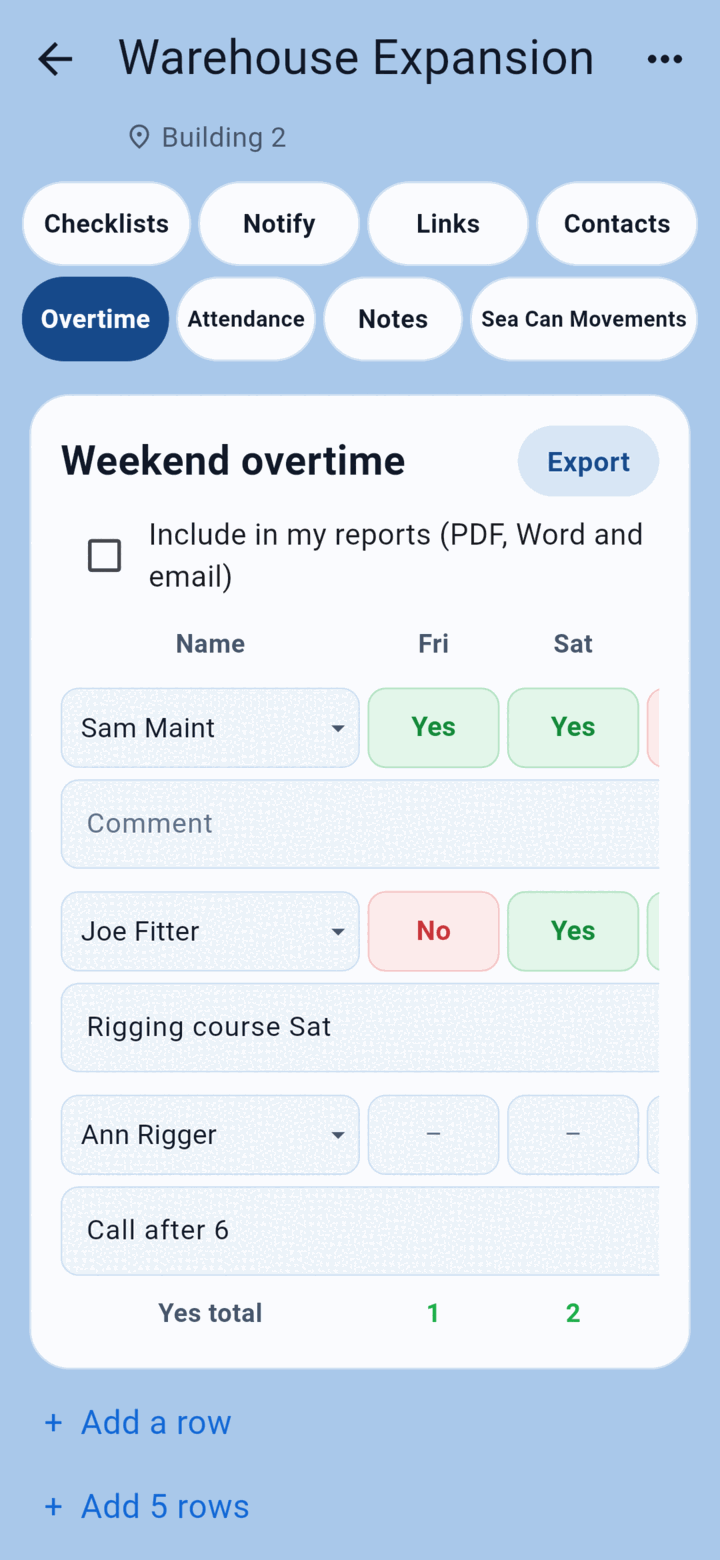
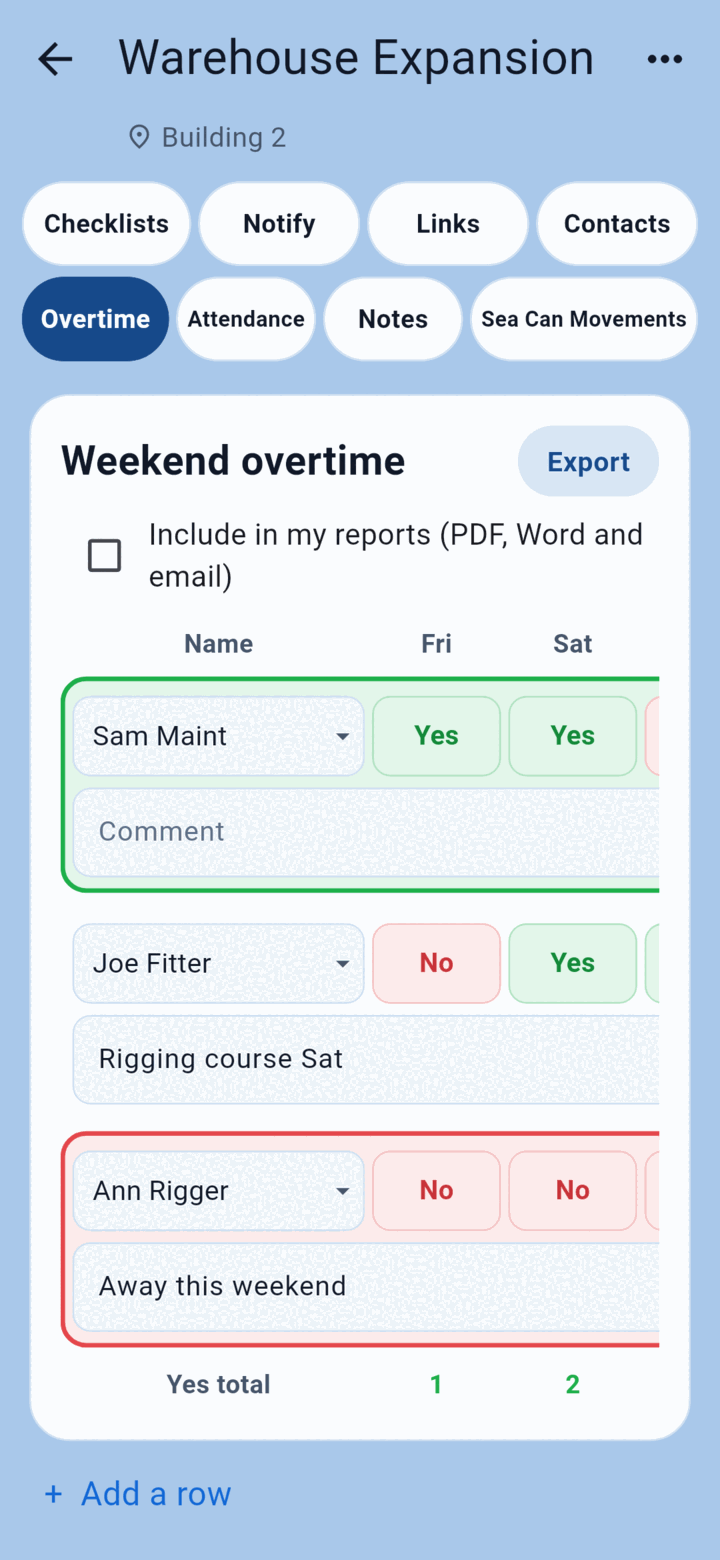
Overtime: green box around a person confirmed Yes, red for No; version 4.52
The box covers the name, every answer and the comment, so it shows without
sliding the table sideways. Manual and screenshots updated.

Claude-Session: https://claude.ai/code/session_01SU9pkUf5APMbUYgKfLLGdu

Changed region(s): [[0.0306, 0.4, 0.9778, 0.9231], [0.0611, 0.9538, 0.3361, 0.9846]]

diff --git a/mobile/lib/screens/overtime_pane.dart b/mobile/lib/screens/overtime_pane.dart
@@ -325,8 +325,30 @@ class _OvertimePaneState extends State<OvertimePane> {
   );
 
   /// One table row: Name, Fri, Sat, Sun dropdowns and the Hours box.
-  Widget _line(OtRow r, List<String> names, {Key? key}) => KeyedSubtree(
+  /// Once a person is confirmed, a box around their whole row (name, answers and comment) lights up:
+  /// green for Yes, red for No. Training and blank stay plain.
+  static BoxDecoration? confirmedBox(String confirmed) => switch (confirmed) {
+    Overtime.yes => BoxDecoration(
+      color: const Color(0xFFE3F6EA),
+      border: Border.all(color: C.green, width: 2.5),
+      borderRadius: BorderRadius.circular(14),
+    ),
+    Overtime.no => BoxDecoration(
+      color: const Color(0xFFFDECEC),
+      border: Border.all(color: C.red, width: 2.5),
+      borderRadius: BorderRadius.circular(14),
+    ),
+    _ => BoxDecoration(
+      border: Border.all(color: Colors.transparent, width: 2.5),
+      borderRadius: BorderRadius.circular(14),
+    ),
+  };
+
+  Widget _line(OtRow r, List<String> names, {Key? key}) => Container(
     key: key,
+    margin: const EdgeInsets.only(bottom: 6),
+    padding: const EdgeInsets.fromLTRB(4, 2, 4, 0),
+    decoration: confirmedBox(r.confirmed),
     child: Column(
       crossAxisAlignment: CrossAxisAlignment.stretch,
       children: [
@@ -472,7 +494,7 @@ class _OvertimePaneState extends State<OvertimePane> {
                       child: Column(
                         crossAxisAlignment: CrossAxisAlignment.stretch,
                         children: [
-                          _row([
+                          Padding(padding: const EdgeInsets.symmetric(horizontal: 6.5), child: _row([
                             _label('Name'),
                             _label('Fri'),
                             _label('Sat'),
@@ -492,17 +514,17 @@ class _OvertimePaneState extends State<OvertimePane> {
                                 ),
                               ),
                             ),
-                          ]),
+                          ])),
                           for (final r in ot.rows) _line(r, names, key: ObjectKey(r)),
                           // Totals sit under the table; after adding rows the screen scrolls here.
                           KeyedSubtree(
                             key: _lastRow,
-                            child: _row([
+                            child: Padding(padding: const EdgeInsets.symmetric(horizontal: 6.5), child: _row([
                               _label('Yes total'),
                               for (var d = 0; d < 3; d++) _label('${ot.yesCount(d)}', color: C.green),
                               const SizedBox(),
                               _label('${ot.confirmedCount()}', color: C.green),
-                            ]),
+                            ])),
                           ),
                         ],
                       ),

diff --git a/classic-android/app/src/main/java/com/dailyworklog/app/OvertimePane.java b/classic-android/app/src/main/java/com/dailyworklog/app/OvertimePane.java
@@ -1,7 +1,9 @@
 package com.dailyworklog.app;
 
 import android.app.Activity;
+import android.graphics.Color;
 import android.graphics.Typeface;
+import android.graphics.drawable.GradientDrawable;
 import android.text.Editable;
 import android.text.InputFilter;
 import android.text.InputType;
@@ -97,6 +99,8 @@ final class OvertimePane {
         sideways.setFillViewport(true);  // as wide as the screen when that's wider
         sideways.addView(grid, new ViewGroup.LayoutParams(ViewGroup.LayoutParams.WRAP_CONTENT, ViewGroup.LayoutParams.WRAP_CONTENT));
         card.addView(sideways);
+        // Same side gaps as the people's boxes, so the headings stay over their columns.
+        head.setPadding(Ui.dp(a, 6), head.getPaddingTop(), Ui.dp(a, 6), head.getPaddingBottom());
         grid.addView(head);
 
         List<String> names = new ArrayList<>();
@@ -131,6 +135,7 @@ final class OvertimePane {
         totalViews[3] = confTotal;
         totals.addView(confTotal, weight(a, 1f));
         totals.addView(new View(a), removeSize(a));
+        totals.setPadding(Ui.dp(a, 6), totals.getPaddingTop(), Ui.dp(a, 6), totals.getPaddingBottom());
         grid.addView(totals);
         refreshTotals.run();
 
@@ -226,6 +231,11 @@ final class OvertimePane {
                                      Models.Overtime.OtRow r, List<String> names, Runnable refreshTotals) {
         LinearLayout block = new LinearLayout(a);
         block.setOrientation(LinearLayout.VERTICAL);
+        block.setPadding(Ui.dp(a, 6), Ui.dp(a, 4), Ui.dp(a, 6), 0);
+        LinearLayout.LayoutParams blp = new LinearLayout.LayoutParams(ViewGroup.LayoutParams.MATCH_PARENT, ViewGroup.LayoutParams.WRAP_CONTENT);
+        blp.bottomMargin = Ui.dp(a, 6);
+        block.setLayoutParams(blp);
+        block.setBackground(confirmedBox(a, r.confirmed));
         LinearLayout line = row(a);
         block.addView(line);
         line.addView(dropdown(a, names, r.name.isEmpty() ? PICK : r.name, (sp, v) -> {
@@ -260,6 +270,7 @@ final class OvertimePane {
             r.confirmed = BLANK.equals(v) ? "" : v;
             store.save();
             sp.setBackgroundResource(cellBg(r.confirmed));
+            block.setBackground(confirmedBox(a, r.confirmed));
             refreshTotals.run();
         }, true, false), weight(a, 1f));
         line.addView(removeButton(a, () -> r.name, () -> Models.Overtime.isBlank(r), () -> {
@@ -307,6 +318,27 @@ final class OvertimePane {
     }
 
     /** Box colour: Yes green, No and AWOL red, anything else the normal box. */
+    /**
+     * Once a person is confirmed, a box around their whole row (name, answers and comment) lights up:
+     * green for Yes, red for No. Training and blank stay plain (a clear border keeps the columns lined up).
+     */
+    static GradientDrawable confirmedBox(Activity a, String confirmed) {
+        GradientDrawable g = new GradientDrawable();
+        g.setCornerRadius(Ui.dp(a, 14));
+        int stroke = Ui.dp(a, 2.5f);
+        if (Models.Overtime.YES.equals(confirmed)) {
+            g.setColor(0xFFE3F6EA);
+            g.setStroke(stroke, 0xFF1DB04B);
+        } else if (Models.Overtime.NO.equals(confirmed)) {
+            g.setColor(0xFFFDECEC);
+            g.setStroke(stroke, 0xFFE5484D);
+        } else {
+            g.setColor(Color.TRANSPARENT);
+            g.setStroke(stroke, Color.TRANSPARENT);
+        }
+        return g;
+    }
+
     static int cellBg(String v) {
         return Models.Overtime.YES.equals(v) ? R.drawable.bg_cell_yes
                 : isRed(v) ? R.drawable.bg_cell_no : R.drawable.bg_cell;
